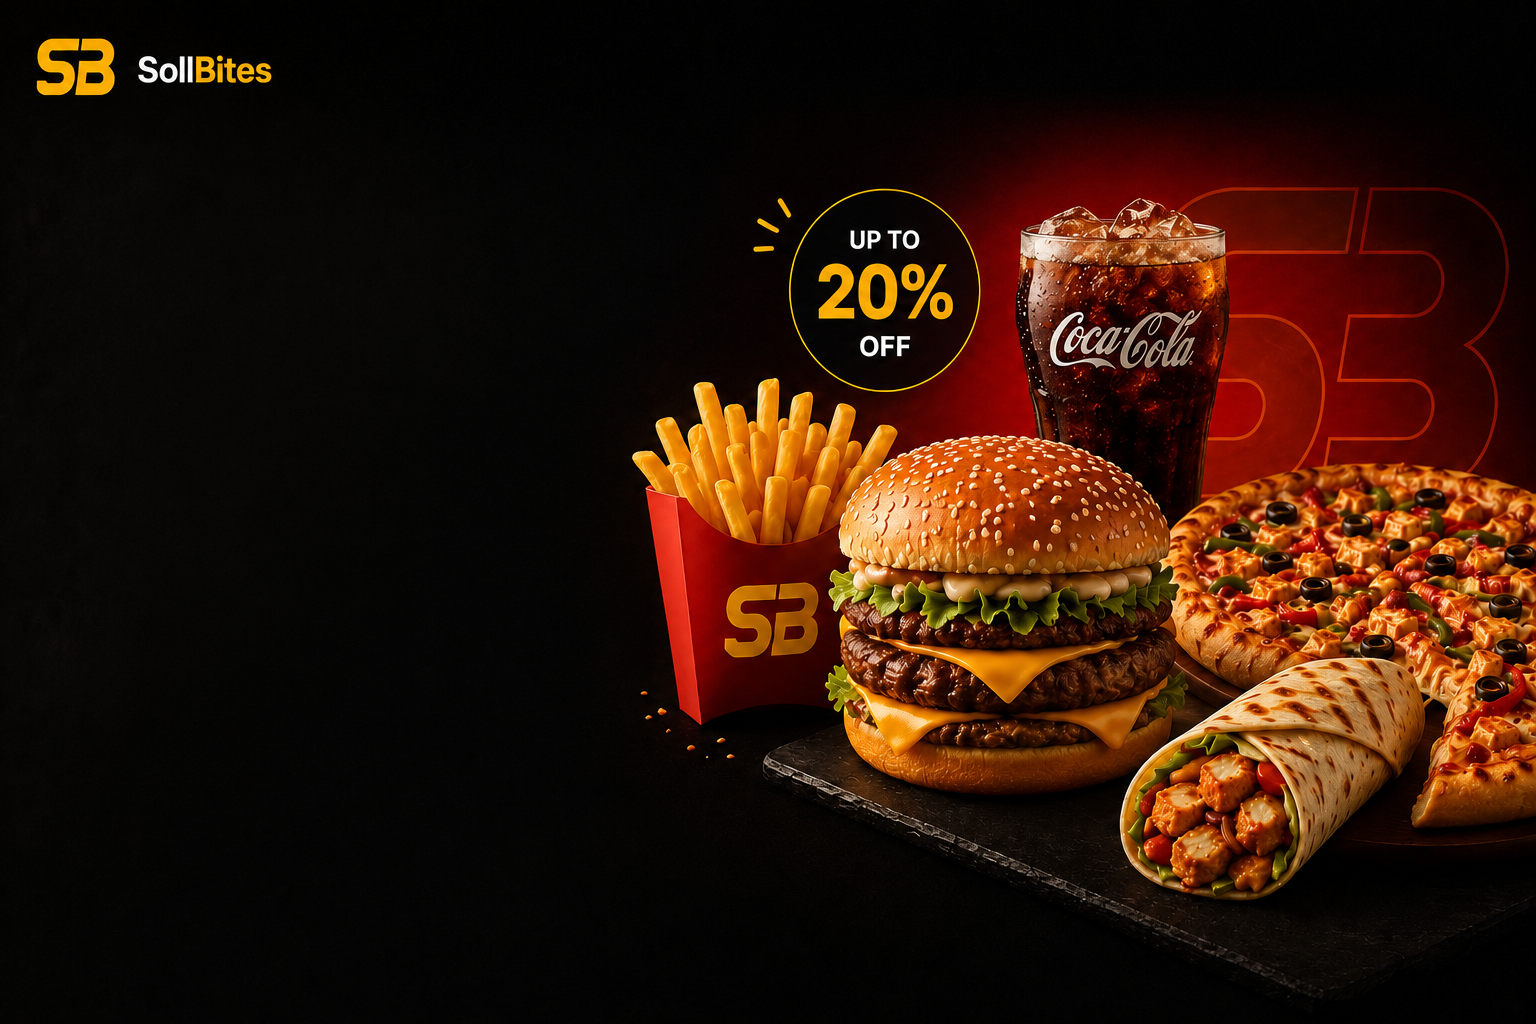
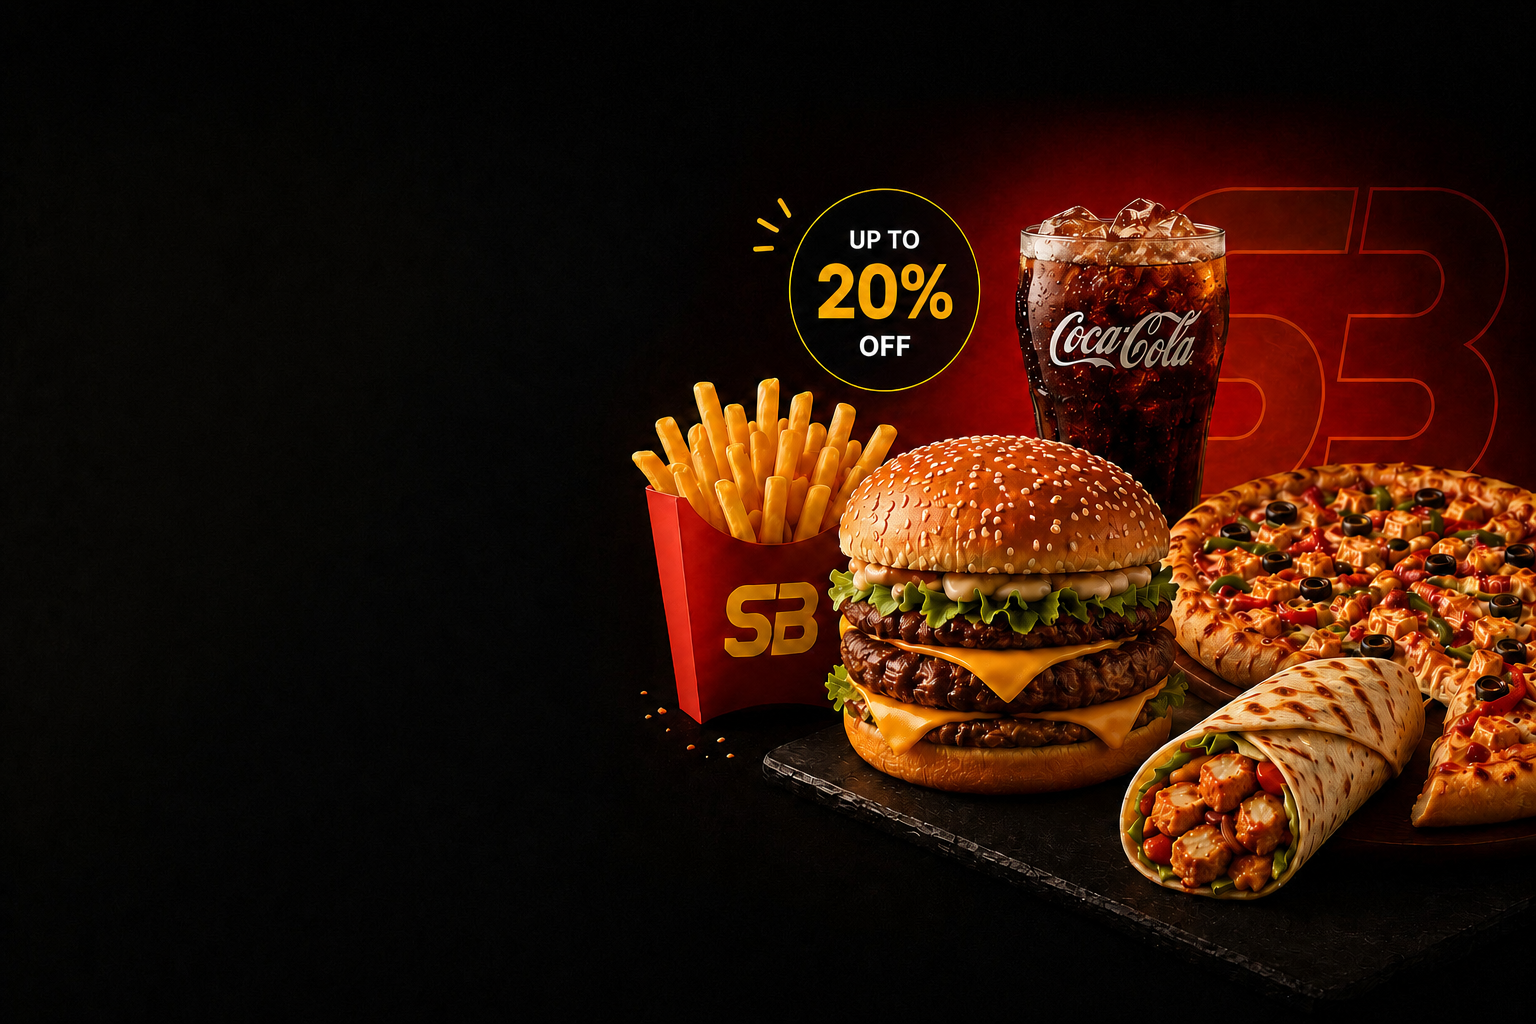
Enhance mobile layout and admin auth

diff --git a/admin.css b/admin.css
@@ -313,6 +313,82 @@ body {
     width: 100%;
     height: 100%;
     object-fit: contain;
-    padding: 10px;
     display: none;
+}
+
+
+/* Responsive for Admin */
+@media (max-width: 992px) {
+    .add-menu-layout {
+        flex-direction: column;
+        gap: 30px;
+    }
+    .form-column {
+        max-width: 100%;
+    }
+}
+
+@media (max-width: 768px) {
+    .admin-wrapper {
+        flex-direction: column;
+    }
+    
+    .sidebar {
+        width: 100%;
+        padding: 15px 0;
+        border-right: none;
+        border-bottom: 1px solid rgba(255, 255, 255, 0.05);
+        flex-direction: column;
+    }
+    
+    .sidebar-logo {
+        margin-bottom: 20px;
+        justify-content: center;
+    }
+    
+    .sidebar-nav {
+        flex-direction: row;
+        justify-content: center;
+        flex-wrap: wrap;
+        gap: 10px;
+        padding: 0 10px;
+    }
+    
+    .nav-item {
+        padding: 10px 15px;
+        border-left: none;
+        border-bottom: 3px solid transparent;
+        justify-content: center;
+        font-size: 13px;
+    }
+    
+    .nav-item.active {
+        border-left: none;
+        border-bottom-color: #FFB800;
+        background-color: rgba(255, 255, 255, 0.02);
+    }
+    
+    .logout-btn {
+        margin-top: 15px;
+        justify-content: center;
+    }
+    
+    .main-content {
+        padding: 20px 15px;
+    }
+    
+    .page-header {
+        flex-direction: column;
+        gap: 15px;
+        align-items: flex-start;
+    }
+    
+    .orders-table th {
+        padding: 12px 15px;
+        white-space: nowrap;
+    }
+    
+    .orders-table td {
+        padding: 12px 15px;
+    }
 }

diff --git a/style.css b/style.css
@@ -272,6 +272,27 @@ body {
 }
 
 /* RESPONSIVE AJUSTMENTS */
+/* MOBILE MENU BUTTON */
+.icon-btn.mobile-menu-btn {
+    display: none;
+    width: 45px;
+    height: 45px;
+    border-radius: 50%;
+    background: rgba(255, 255, 255, 0.05);
+    border: 1px solid rgba(255, 255, 255, 0.1);
+    color: #ffffff;
+    justify-content: center;
+    align-items: center;
+    cursor: pointer;
+    transition: all 0.3s ease;
+    z-index: 1001;
+    position: relative;
+}
+
+.icon-btn.mobile-menu-btn:hover {
+    background: rgba(255, 255, 255, 0.1);
+}
+
 @media (max-width: 1200px) {
     .main-title {
         font-size: 70px;
@@ -283,10 +304,35 @@ body {
         font-size: 60px;
     }
     .background-container {
-        background-position: 80% center;
+        background-position: left center;
     }
     .nav-links {
-        display: none; /* Hide nav on mobile/tablet for simplicity unless requested */
+        position: fixed;
+        top: 0;
+        right: -100%;
+        width: 250px;
+        height: 100vh;
+        background-color: rgba(5, 5, 5, 0.98);
+        backdrop-filter: blur(10px);
+        flex-direction: column;
+        justify-content: center;
+        align-items: center;
+        transition: 0.3s ease;
+        z-index: 1000;
+        box-shadow: -5px 0 15px rgba(0,0,0,0.5);
+    }
+    
+    .nav-links.nav-active {
+        right: 0;
+    }
+    
+    .nav-links a {
+        font-size: 20px;
+        margin: 15px 0;
+    }
+    
+    .icon-btn.mobile-menu-btn {
+        display: flex;
     }
 }
 

diff --git a/global.js b/global.js
@@ -18,4 +18,41 @@ document.addEventListener("DOMContentLoaded", () => {
             el.classList.add('fade-in-visible');
         }, index * 100 + 100); // Staggered animation: start after 100ms, with 100ms delay between each
     });
+
+    // Mobile menu toggle
+    const headerActions = document.querySelector('.header-actions');
+    const navLinks = document.querySelector('.nav-links');
+    if (headerActions && navLinks) {
+        const menuBtn = document.createElement('button');
+        menuBtn.className = 'icon-btn mobile-menu-btn';
+        menuBtn.setAttribute('aria-label', 'Menu');
+        menuBtn.innerHTML = `
+            <svg width="24" height="24" viewBox="0 0 24 24" fill="none" stroke="currentColor" stroke-width="2" stroke-linecap="round" stroke-linejoin="round">
+                <line x1="3" y1="12" x2="21" y2="12"></line>
+                <line x1="3" y1="6" x2="21" y2="6"></line>
+                <line x1="3" y1="18" x2="21" y2="18"></line>
+            </svg>
+        `;
+        headerActions.appendChild(menuBtn);
+
+        menuBtn.addEventListener('click', () => {
+            navLinks.classList.toggle('nav-active');
+            if (navLinks.classList.contains('nav-active')) {
+                menuBtn.innerHTML = `
+                    <svg width="24" height="24" viewBox="0 0 24 24" fill="none" stroke="currentColor" stroke-width="2" stroke-linecap="round" stroke-linejoin="round">
+                        <line x1="18" y1="6" x2="6" y2="18"></line>
+                        <line x1="6" y1="6" x2="18" y2="18"></line>
+                    </svg>
+                `;
+            } else {
+                menuBtn.innerHTML = `
+                    <svg width="24" height="24" viewBox="0 0 24 24" fill="none" stroke="currentColor" stroke-width="2" stroke-linecap="round" stroke-linejoin="round">
+                        <line x1="3" y1="12" x2="21" y2="12"></line>
+                        <line x1="3" y1="6" x2="21" y2="6"></line>
+                        <line x1="3" y1="18" x2="21" y2="18"></line>
+                    </svg>
+                `;
+            }
+        });
+    }
 });

diff --git a/order.css b/order.css
@@ -154,7 +154,34 @@
         font-size: 32px;
     }
     .product-grid {
-        grid-template-columns: repeat(auto-fill, minmax(240px, 1fr));
-        gap: 20px;
+        grid-template-columns: repeat(2, 1fr);
+        gap: 15px;
+    }
+    .product-card {
+        padding: 15px;
+    }
+    .product-image {
+        height: 130px;
+        margin-bottom: 15px;
+    }
+    .product-title {
+        font-size: 14px;
+        margin-bottom: 5px;
+    }
+    .product-price {
+        font-size: 16px;
+        margin-bottom: 15px;
+    }
+    .add-to-cart-btn {
+        font-size: 13px;
+        padding: 8px;
+    }
+    .qty-btn {
+        width: 28px;
+        height: 28px;
+        font-size: 16px;
+    }
+    .qty-count {
+        font-size: 14px;
     }
 }

diff --git a/admin.js b/admin.js
@@ -155,6 +155,20 @@ function addNewDish() {
 }
 
 document.addEventListener("DOMContentLoaded", () => {
+    // Check authentication
+    if (sessionStorage.getItem('sollbites_admin_auth') !== 'true') {
+        let pwd = prompt("Enter Admin Password:");
+        while (pwd !== "sollbitesadmin") {
+            if (pwd === null) {
+                // User cancelled, redirect to home
+                window.location.href = "index.html";
+                return;
+            }
+            pwd = prompt("Incorrect password. Try again:");
+        }
+        sessionStorage.setItem('sollbites_admin_auth', 'true');
+    }
+
     loadOrders();
     handleImageUpload();
 });

diff --git a/admin.html b/admin.html
@@ -9,6 +9,7 @@
     <link href="https://fonts.googleapis.com/css2?family=Inter:wght@400;500;600;700&display=swap" rel="stylesheet">
 </head>
 <body>
+
     <div class="admin-wrapper">
         <!-- Sidebar -->
         <aside class="sidebar">